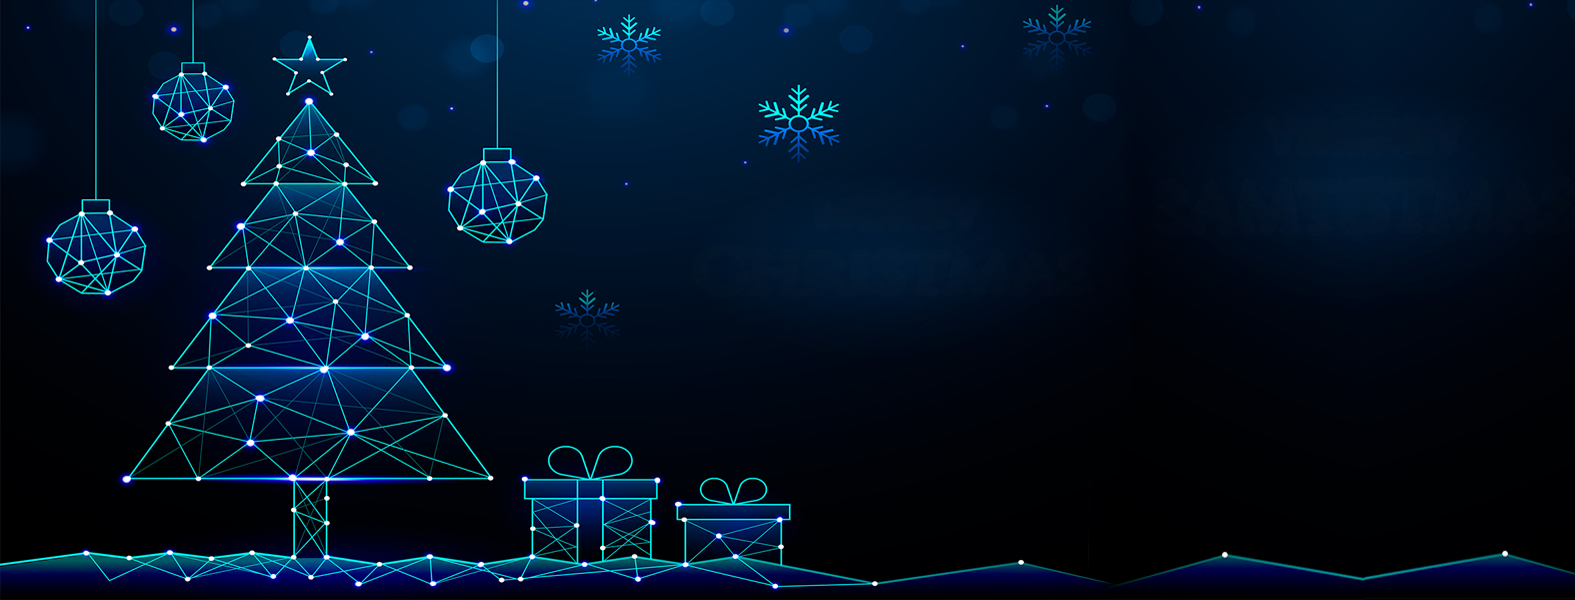
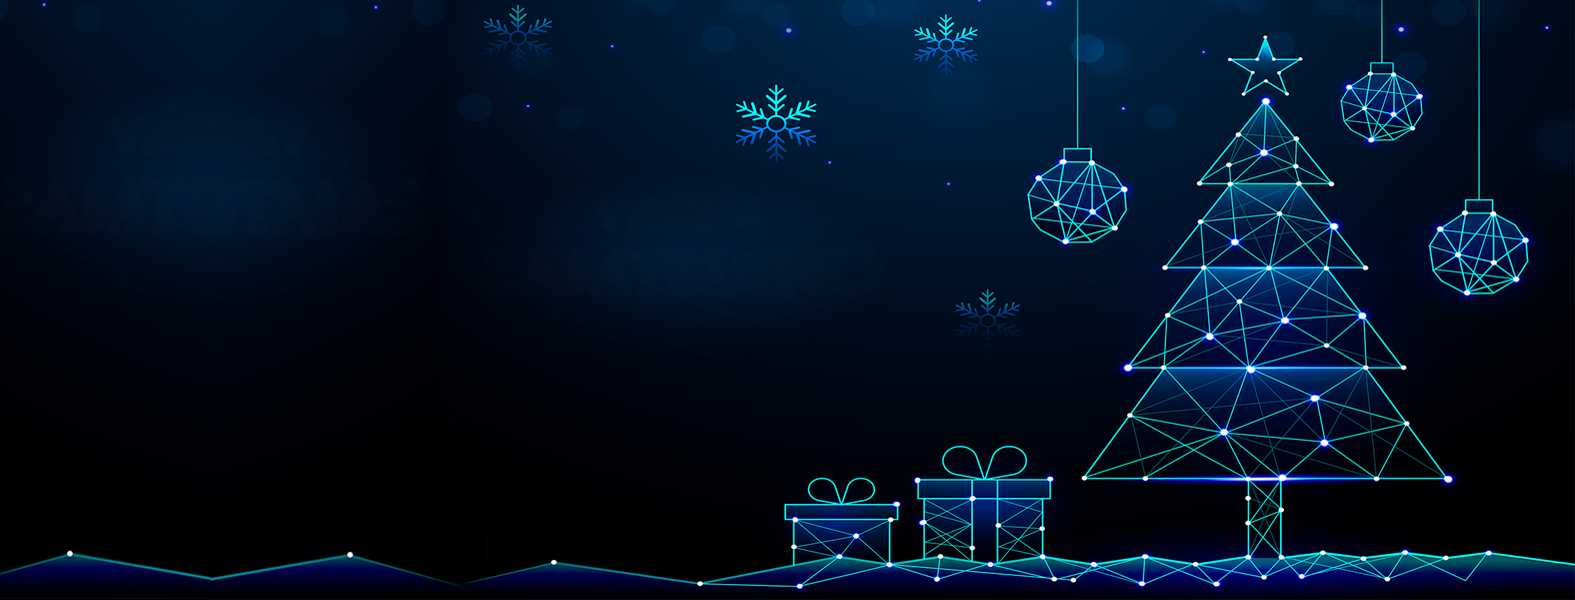
added santa

diff --git a/components/PopupC.tsx b/components/PopupC.tsx
@@ -205,11 +205,25 @@ const PopupFormC: React.FC<PopupFormProps> = ({ isOpen, onClose }) => {
         <div className="sparkles"></div>
 
         {/* LIGHTS BORDER */}
+        {/* FULL SCREEN LIGHTS */}
         <div className="christmas-lights">
-          {Array.from({ length: 25 }).map((_, i) => (
-            <div key={i} className="bulb"></div>
+          {Array.from({ length: 80 }).map((_, i) => (
+            <div
+              key={i}
+              className="bulb"
+              style={{
+                animationDuration: `${1 + (i % 3) * 0.4}s`,
+                backgroundColor: ["#ff4f4f", "#00e676", "#ffd700", "#29b6f6"][
+                  i % 4
+                ],
+                boxShadow: `0 0 12px ${
+                  ["#ff4f4f", "#00e676", "#ffd700", "#29b6f6"][i % 4]
+                }`,
+              }}
+            ></div>
           ))}
         </div>
+
         {/* CHRISTMAS ICON LIGHTS */}
         <div className="christmas-lights flex items-center justify-between w-full px-4 py-1">
           {Array.from({ length: 20 }).map((_, i) => {
@@ -231,6 +245,12 @@ const PopupFormC: React.FC<PopupFormProps> = ({ isOpen, onClose }) => {
             );
           })}
         </div>
+
+        {/* Santa Flying */}
+        <img src="/santa.webp" alt="Santa" className="santa" />
+
+        {/* Christmas Tree */}
+        <img src="/tree.png" alt="Christmas Tree" className="tree" />
 
         {/* CLOSE BUTTON */}
         <div className="w-full flex justify-center mb-4">

diff --git a/components/Hero.tsx b/components/Hero.tsx
@@ -28,14 +28,7 @@ const slides = [
     ctaText: "Get Your Growth Plan Now",
     action: "popup2",
   },
-  {
-    image: slide3,
-    title: "This Christmas, Give Your Brand the Gift of Massive Growth",
-    subtitle:
-      "Unwrap exclusive Christmas benefits across SEO, Social Media, and Performance Marketing - crafted to boost visibility, drive conversions, and launch your brand into 2026 with unstoppable momentum.",
-    ctaText: "Claim Your Christmas Growth Plan",
-    action: "popup2",
-  },
+
   {
     image: slide4,
     title: "We Make Your Brand Impossible to Ignore",
@@ -43,6 +36,14 @@ const slides = [
       "In a world of endless scroll, we create the moments that make people stop - and take action. Bigwig Media Digital blends bold creativity with performance science to turn attention into real business outcomes.",
     ctaText: "Get a Winning Strategy",
     action: "popup1",
+  },
+  {
+    image: slide3,
+    title: "This Christmas, Give Your Brand the Gift of Massive Growth",
+    subtitle:
+      "Unwrap exclusive Christmas benefits across SEO, Social Media, and Performance Marketing - crafted to boost visibility, drive conversions, and launch your brand into 2026 with unstoppable momentum.",
+    ctaText: "Claim Your Christmas Growth Plan",
+    action: "popup2",
   },
 ];
 

diff --git a/src/app/globals.css b/src/app/globals.css
@@ -289,13 +289,62 @@ body {
 }
 
 .christmas-lights {
-  position: absolute;
-  top: 0;
-  left: 0;
+  position: fixed;
+  inset: 0;
   width: 100%;
-  height: auto;
+  height: 100%;
   display: flex;
+  flex-wrap: wrap;
+  align-content: space-between;
   justify-content: space-between;
   pointer-events: none;
   z-index: 50;
+  padding: 20px;
+}
+.bulb {
+  width: 12px;
+  height: 12px;
+  background-color: #ff4f4f;
+  border-radius: 50%;
+  box-shadow: 0 0 10px #ff4f4f;
+  animation: glow 1.4s infinite alternate;
+}
+
+.santa {
+  position: fixed;
+  bottom: 40px;
+  left: -100px;
+  width: 180px;
+  animation: santaRide 12s linear infinite;
+  z-index: 60;
+  pointer-events: none;
+  overflow: hidden;
+}
+
+@keyframes santaRide {
+  0% {
+    transform: translateX(0);
+  }
+  100% {
+    transform: translateX(calc(94vw));
+  }
+}
+
+.tree {
+  position: fixed;
+  bottom: 20px;
+  right: 20px;
+  width: 150px;
+  z-index: 60;
+  pointer-events: none;
+  animation: treeGlow 2s infinite alternate;
+}
+
+@keyframes treeGlow {
+  from {
+    filter: drop-shadow(0 0 5px #0f0);
+  }
+  to {
+    filter: drop-shadow(0 0 20px #0f0);
+  }
 }
